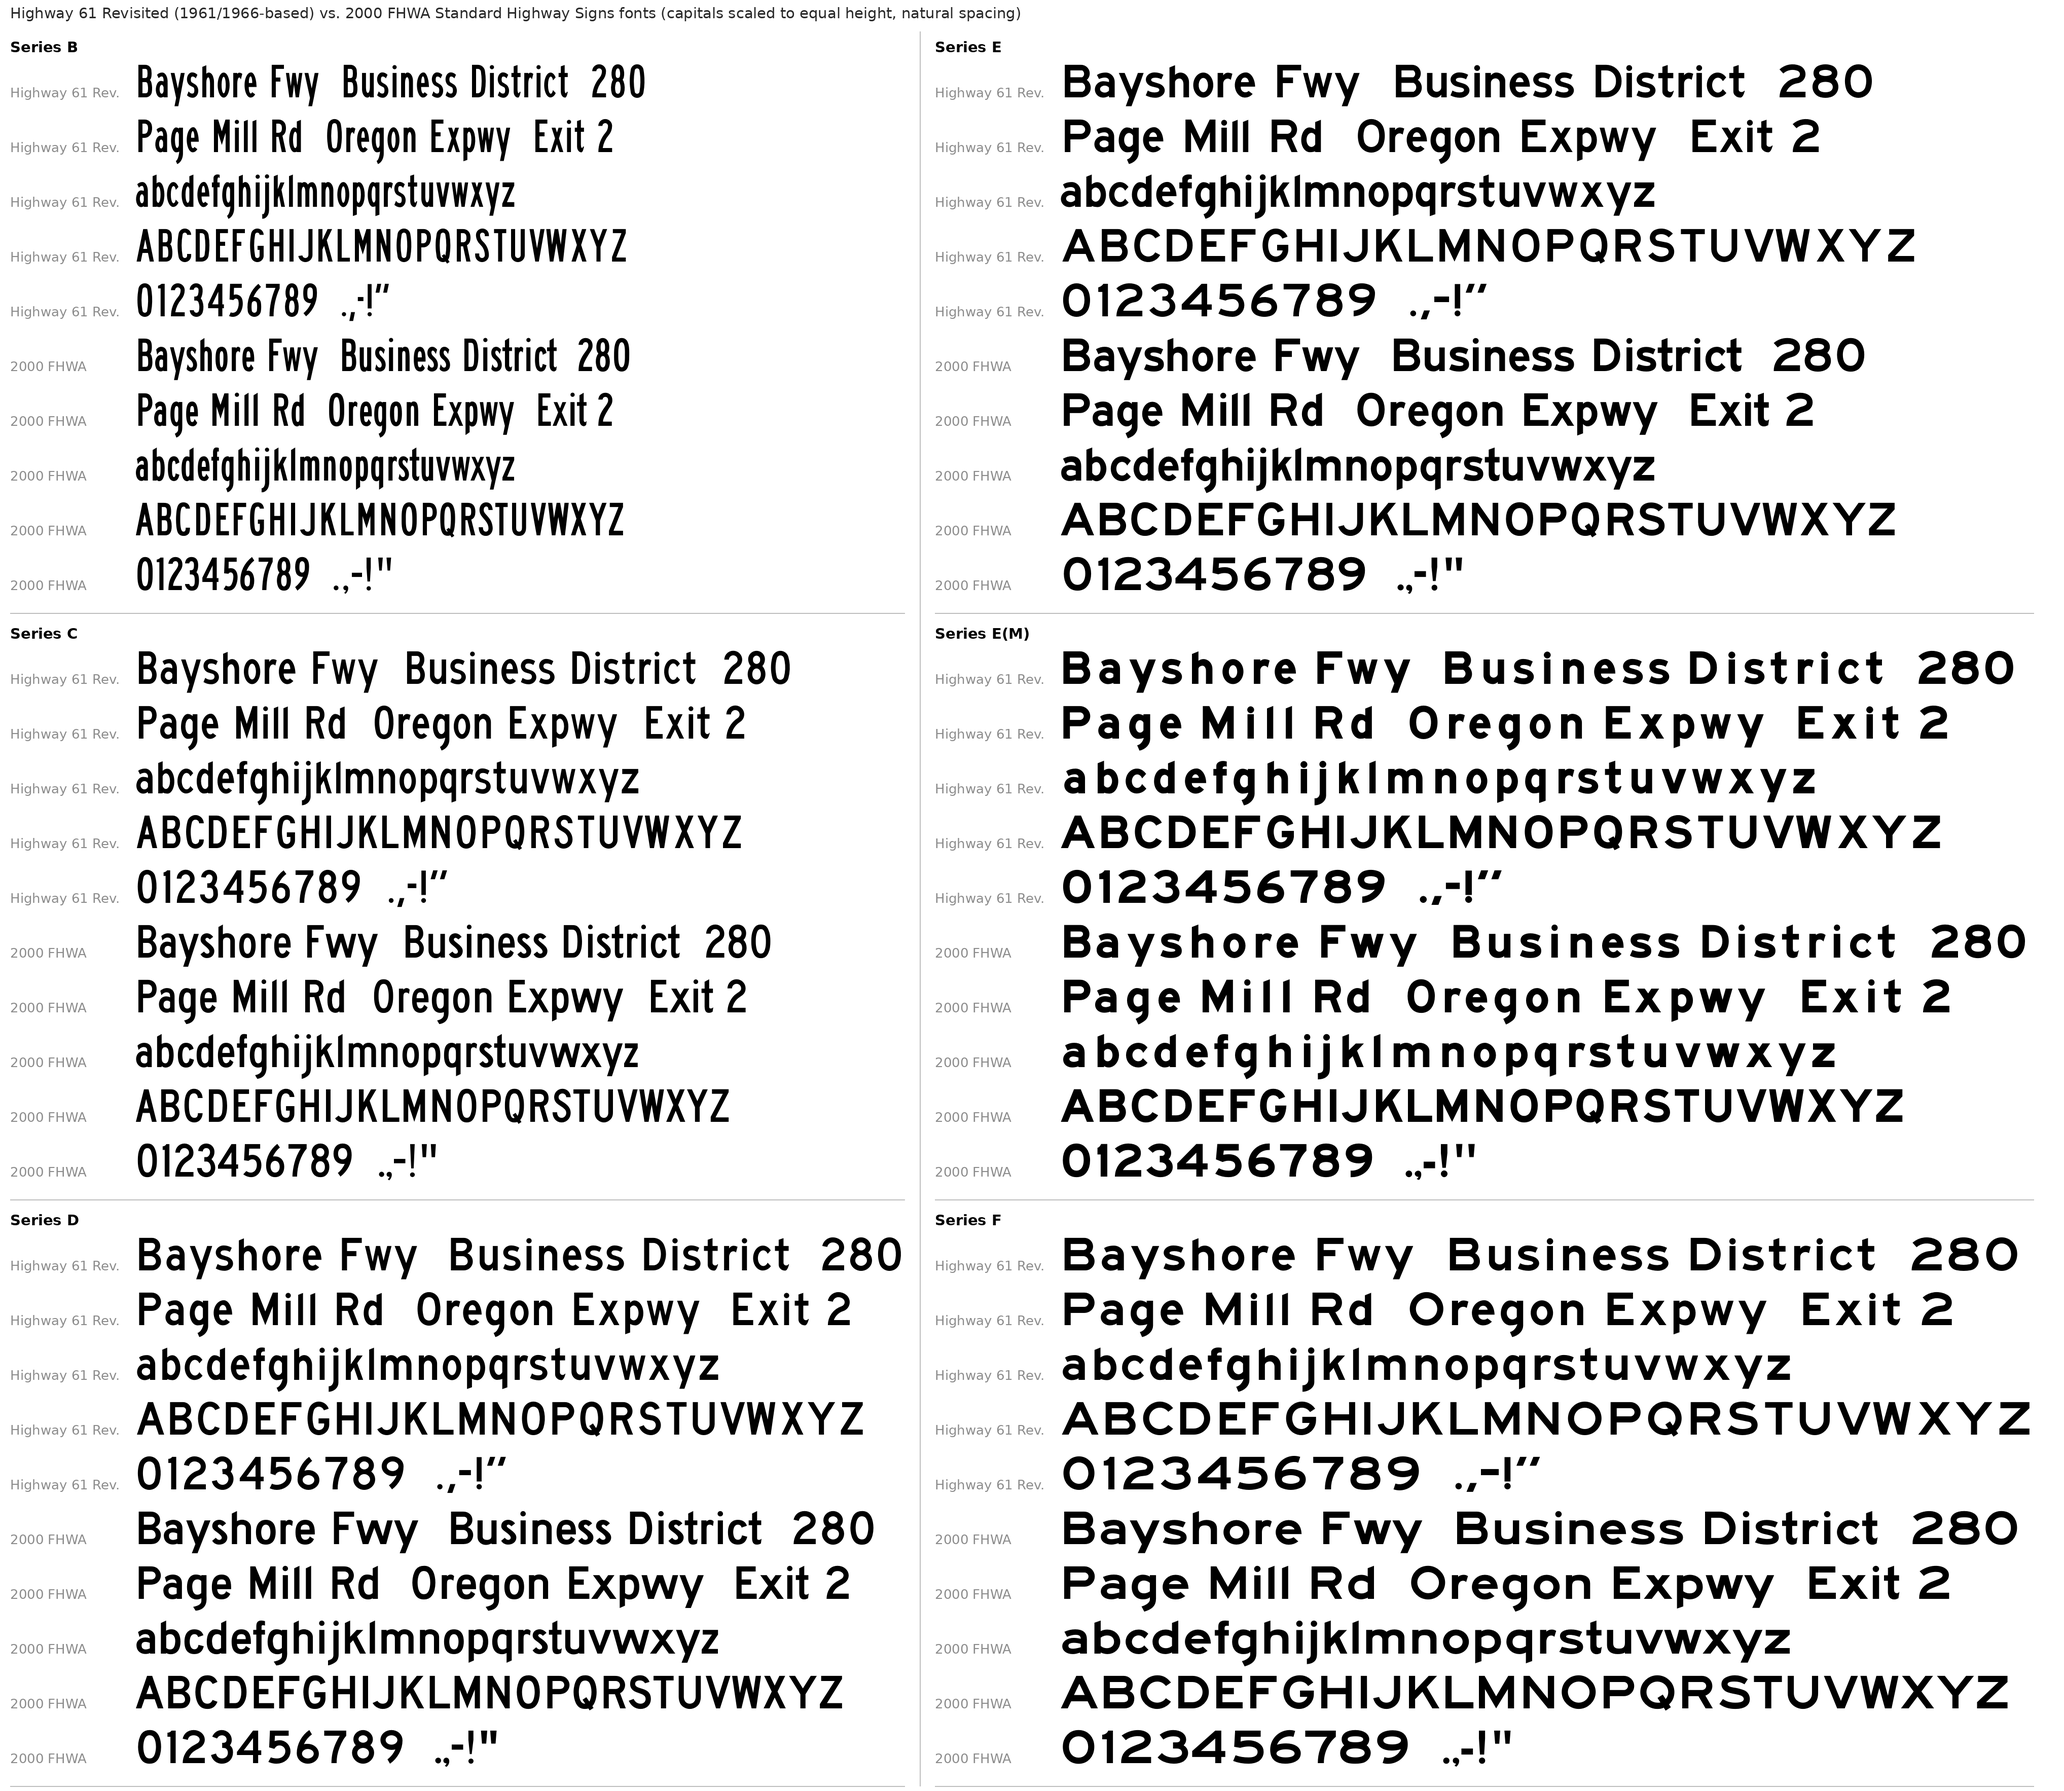
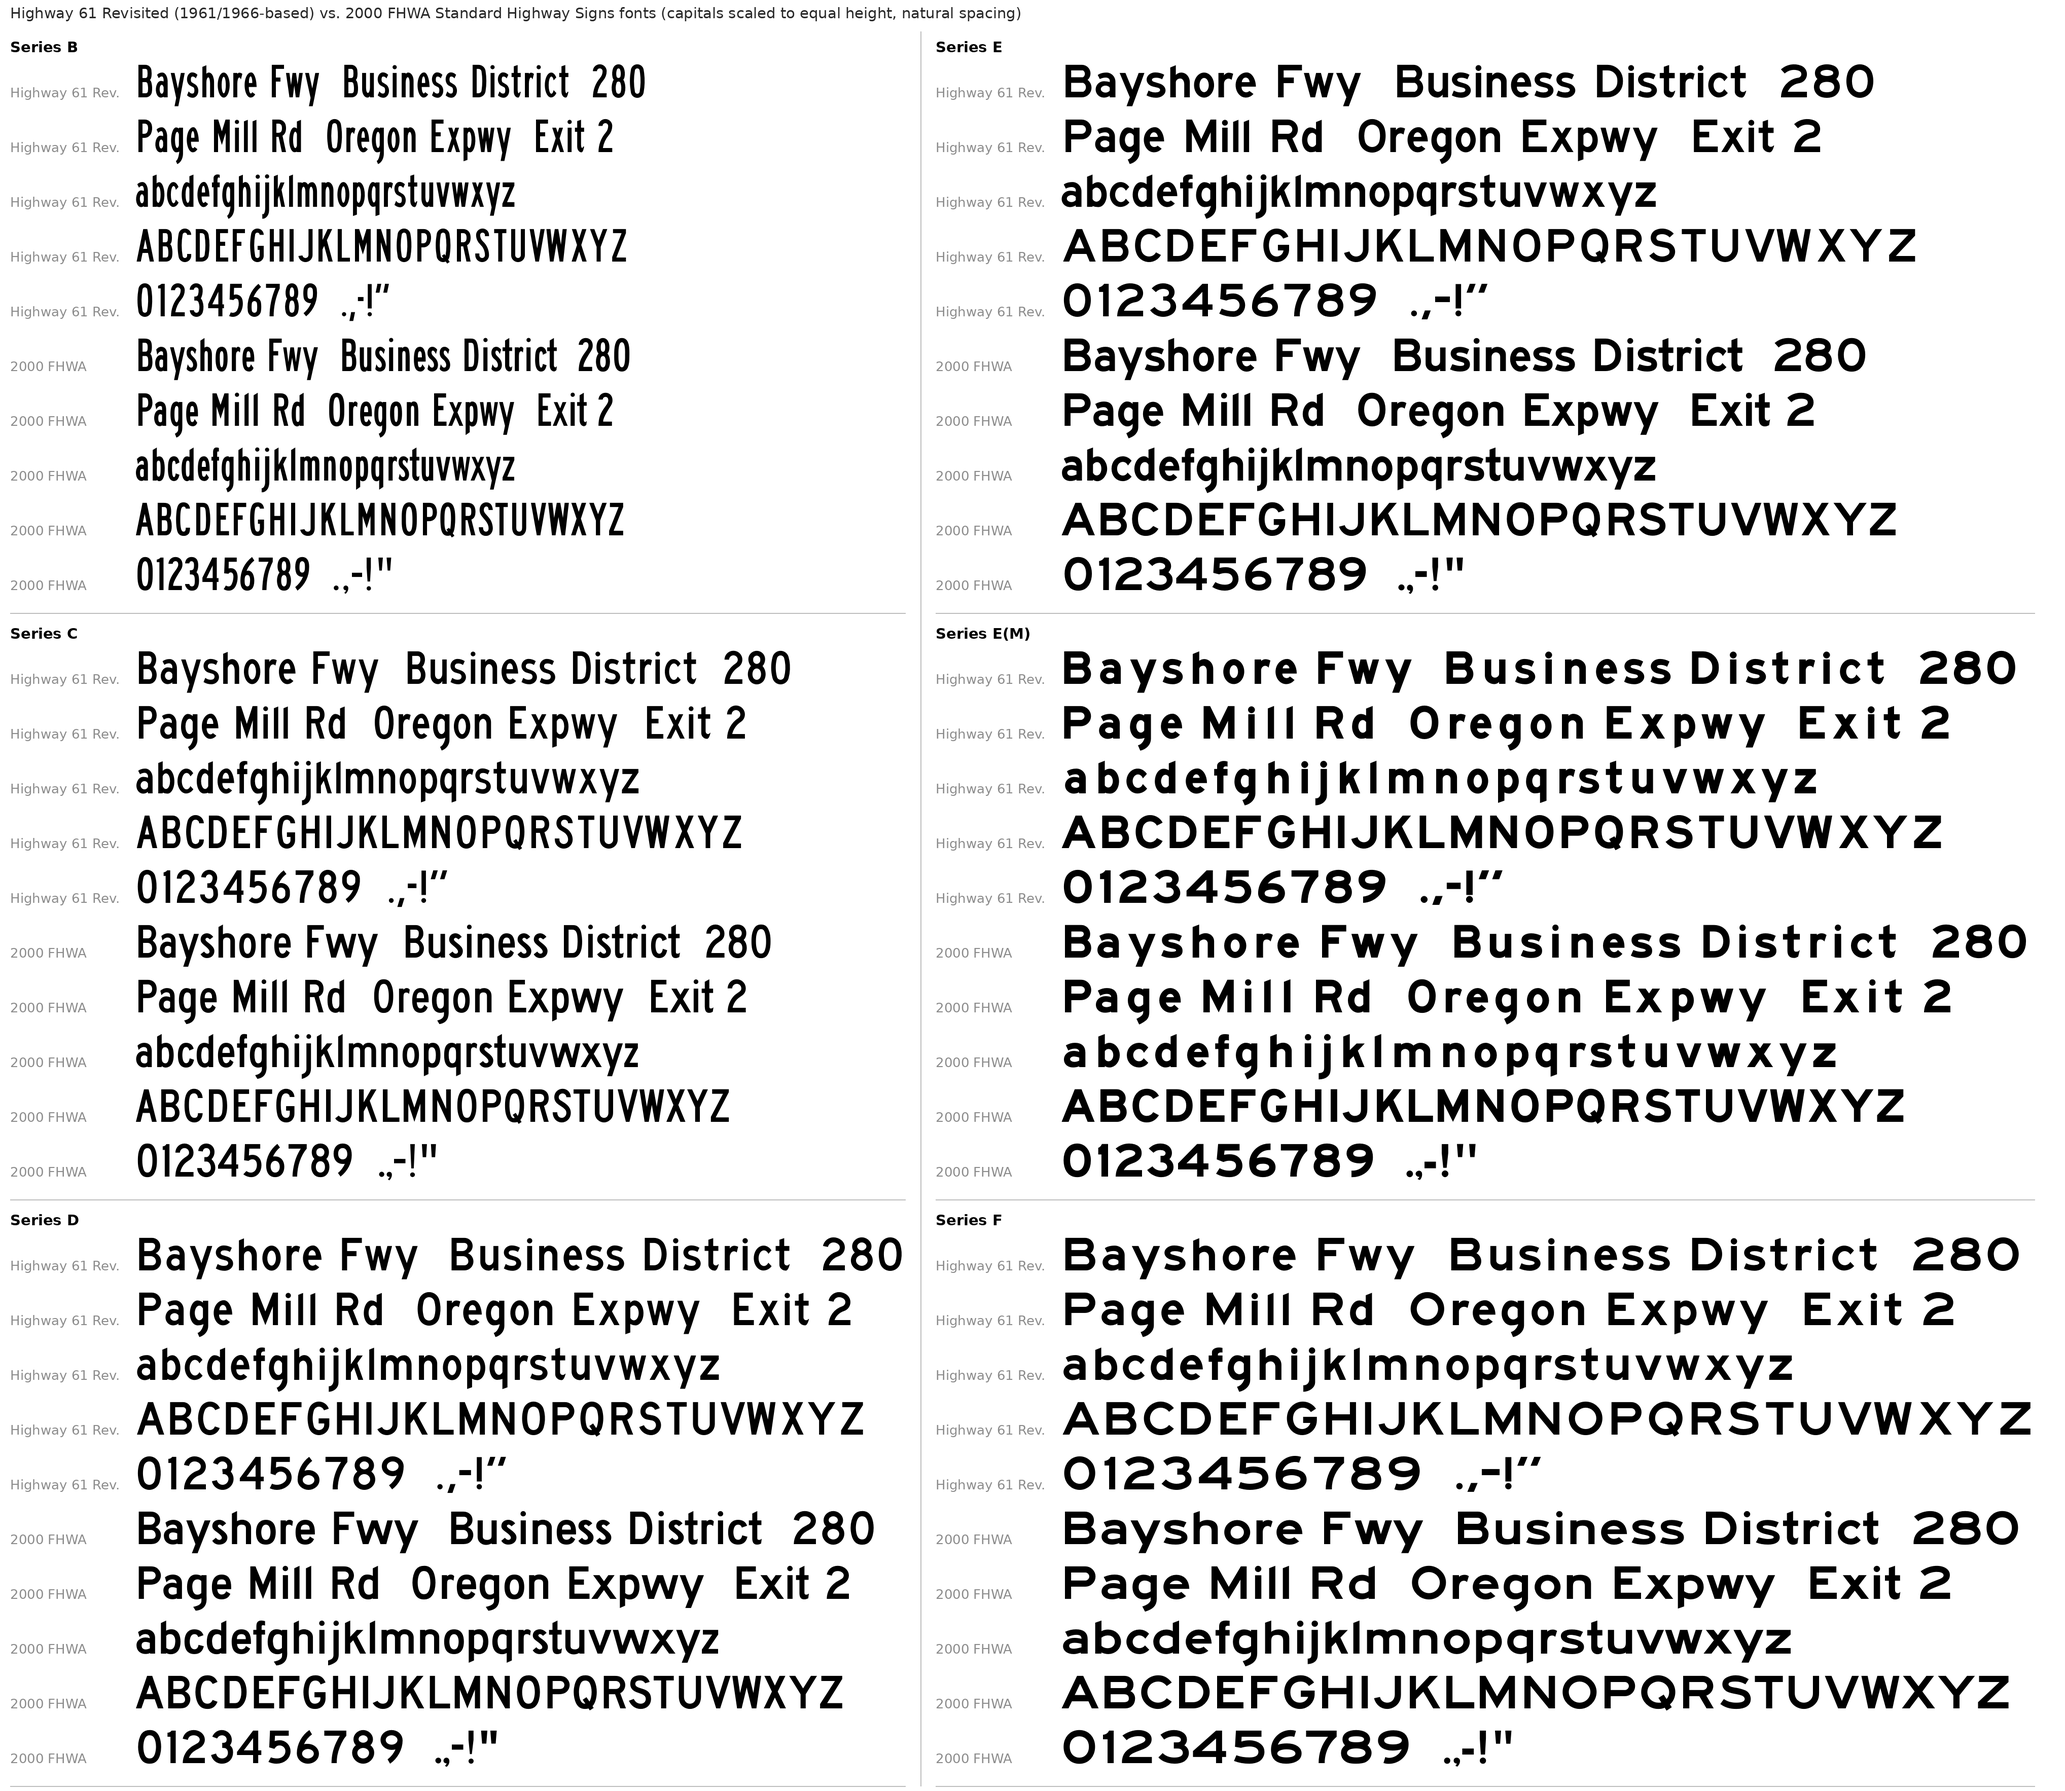
Give the w some of its weight back
build1961.W_LIGHT 0.15 -> 0.08: the w's strokes are now thinned by 0.08 of
the series stroke instead of 0.15.

Claude-Session: https://claude.ai/code/session_01XskEBfdJQTrEgufDyH5qk6

diff --git a/highway61/work/build1961.py b/highway61/work/build1961.py
@@ -88,7 +88,7 @@ if S in 'ABCDEF':                                # condensed / expanded lower ca
     import lccondense
     for c, C in lccondense.series(S).items():
         new[c] = SegShifted(C, c)
-W_LIGHT = 0.15                                   # the w's strokes thinner by this fraction of the series stroke
+W_LIGHT = 0.08                                   # the w's strokes thinner by this fraction of the series stroke
 def _lighter_w(C, T):
     """offset inward by W_LIGHT*T/2, then baseline and x-height restored (four strokes in one letter read heavy)"""
     X = 517.5; d = W_LIGHT * T / 2

diff --git a/highway61/HANDOFF.md b/highway61/HANDOFF.md
@@ -395,6 +395,10 @@ ends keep their angles.
   12 (B) units; the narrowest width (twice the erosion that splits the s) goes from 0.77/0.76 to 0.89/0.87 of the
   stroke (E(M) 0.81, C-F 0.82-0.83).
 
+### w weight (2026-10-16)
+- `build1961.W_LIGHT` 0.15 -> 0.08 (user: the w had been lightened too much; give some back, not all).  Lower-case
+  alphabets stay within 0.03 cap heights of FHWA (LC_TIGHT unchanged).
+
 ### e bar and a bowl top from the Palo Alto signs (2026-10-16)
 - Street View of two early-1960s signs on the Oregon Expressway, Palo Alto (Bayshore Fwy 2022, Business District
   2018): lower-case widths match our Series C letter for letter (s narrower, r e a little wider).  Measured from
